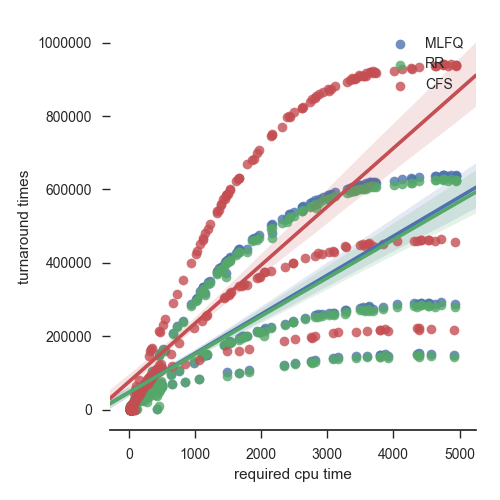
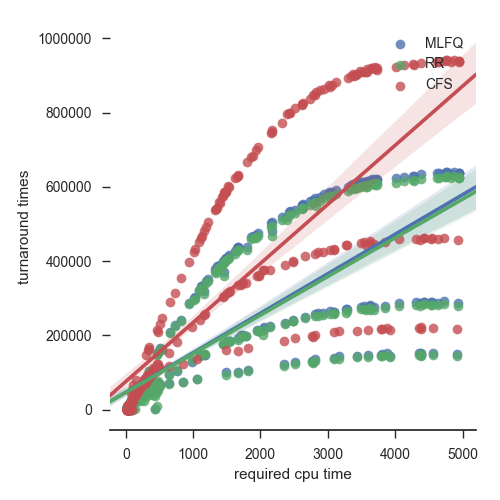
more plots

diff --git a/data_plots.py b/data_plots.py
@@ -6,15 +6,6 @@ import seaborn as sns; sns.set(style="ticks", color_codes=True)
 # Read dataset
 df = pd.read_csv('sim_stats.csv')
 
-g = sns.factorplot(x='scheduleer',
-                   y='average response time',
-                   data = df,
-                   hue='process sizes',
-                   sharex=False,
-                   sharey=False,
-                   )
-plt.show()
-exit(0)
 
 g = sns.lmplot(x='pids',
                    y='turnaround stat',
@@ -28,7 +19,7 @@ g = sns.lmplot(x='pids',
 g.despine(left=True)
 plt.legend(loc='upper right')
 plt.savefig('Plots/pids_x_turnaround_stat_y')
-exit(0)
+
 
 g = sns.lmplot(x='required cpu time',
                    y='turnaround stat',
@@ -39,18 +30,20 @@ g = sns.lmplot(x='required cpu time',
                    sharey=False
                    )
 plt.savefig('Plots/cpu_time_x_turnaround_stat_y')
-exit(0)
+
 
 g = sns.lmplot(x='required cpu time',
                    y='turnaround times',
                    data = df,
                    hue ='scheduler',
-                   legend=False
+                   legend=False,
+                   sharex=False,
+                   sharey=False
                    )
 g.despine(left=True)
 plt.legend(loc='upper right')
 plt.savefig('Plots/cpu_time_x_turnaround_time_y')
-exit(0)
+
 
 g = sns.factorplot(x='plist configuration',
                    y='total wait times',
@@ -61,7 +54,7 @@ g = sns.factorplot(x='plist configuration',
                    palette="muted"
                    )
 plt.savefig('Plots/total_wait_times_hist')
-exit(0)
+
 
 g = sns.lmplot(x='start_times',
                    y='finish times',
